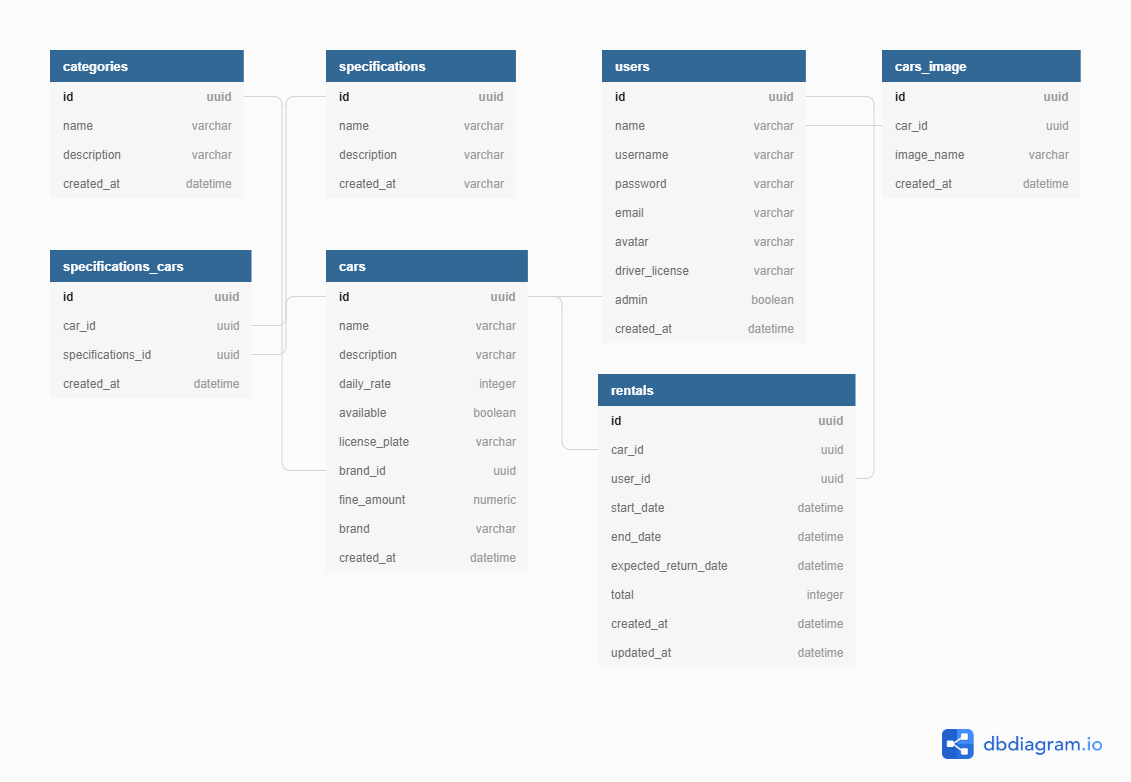
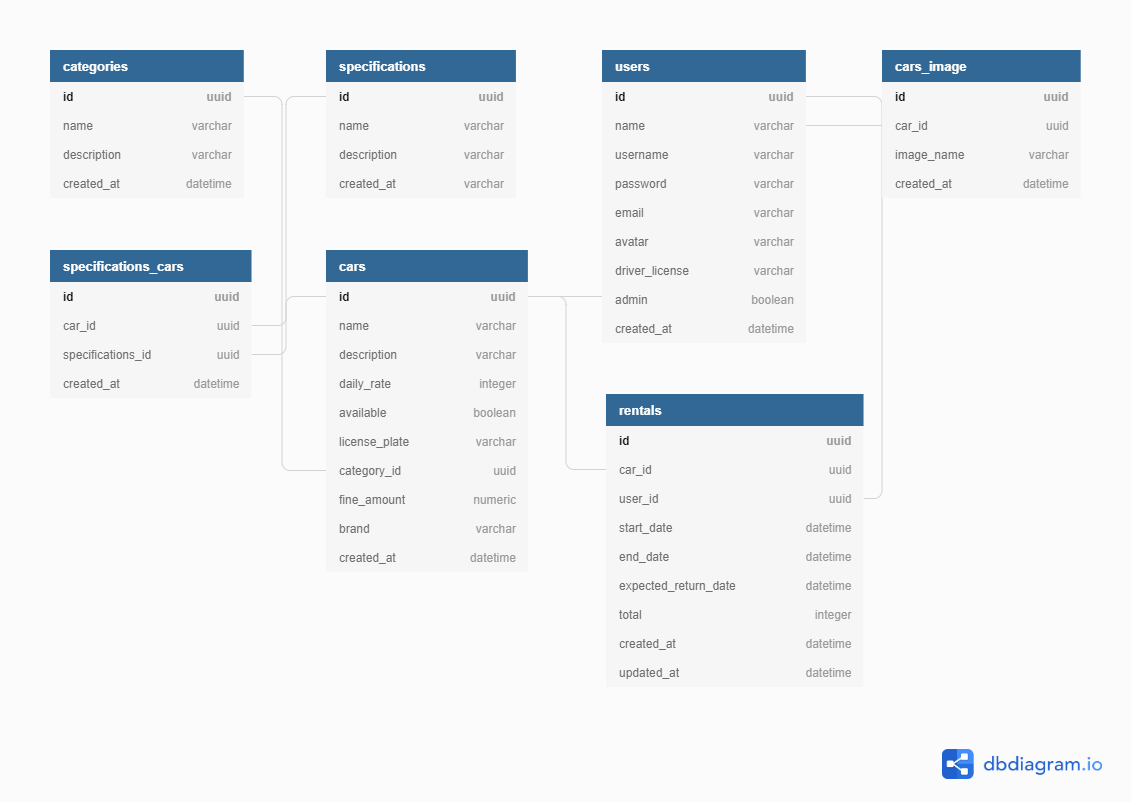
Cadastro dos requisitos da aplicação

diff --git a/README.md b/README.md
@@ -1,11 +1,69 @@
-# Cadastro de carros
+# Cadastro de veículos
 
-** Requisitos Funcionais **
-- Deve ser possível cadastrar um novo carro
+> Requisitos Funcionais
+- Deve ser possível cadastrar um novo veículo
+- Deve ser possível listar todas as categorias
 
-** Requisitos Não Funcionais **
+> Requisitos Não Funcionais
 - N/A
 
-** Regras de Negócio **
-- Não deve ser possível cadastrar um carro com uma placa já existente
-- Não deve ser possível alterar a placa de um carro já cadastrado
+> Regras de Negócio
+- Não deve ser possível cadastrar um veículo com uma placa já existente
+- Não deve ser possível alterar a placa de um veículo já cadastrado
+- O veículo deve ser cadastrado com a disponibilidade habilitada por padrão
+- Não deve ser possível o cadastro por um usuário sem acesso de administrador
+
+# Listagem de veículos
+
+> Requisitos Funcionais
+- Deve ser possível listar todos os veículos disponíveis
+- Deve ser possível listar todos os veículos disponíveis pelo nome da categoria
+- Deve ser possível listar todos os veículos disponíveis pelo nome da marca
+- Deve ser possível listar todos os veículos disponíveis pelo nome do veículo
+
+> Requisitos Não Funcionais
+- N/A
+
+> Regras de Negócio
+- O usuário não precisa estar logado no sistema
+
+# Cadastro de especificações
+
+> Requisitos Funcionais
+- Deve ser possível cadastrar uma especificação para um veículo
+- Deve ser possível listar todas as especificações
+- Deve ser possível listar todos os veículos
+
+> Requisitos Não Funcionais
+- N/A
+
+> Regras de Negócio
+- Não deve ser possível cadastrar uma especificação para um veículo não cadastrado
+- Não deve ser possível cadastrar uma especificação já existente para o mesmo veículo
+- Não deve ser possível o cadastro por um usuário sem acesso de administrador
+
+# Cadastro de imagens do veículo
+
+> Requisitos Funcionais
+- Deve ser possível cadastrar a imagem do veículo
+- Deve ser possível listar todos os veículos cadastrados
+
+> Requisitos Não Funcionais
+- Utilizar o multer para upload dos arquivos
+
+> Regras de Negócio
+- O usuário deve poder cadastrar mais de uma imagem para o mesmo veículo
+- Não deve ser possível o cadastro por um usuário sem acesso de administrador
+
+# Agendamento de alugel
+
+> Requisitos Funcionais
+- Deve ser possível listar cadastrar um aluguel
+
+> Requisitos Não Funcionais
+- N/A
+
+> Regras de Negócio
+- O alugel deve ter duração mínima de 24 horas
+- Não deve ser possível cadastrar um novo aluguel caso já exista um aberto para o mesmo usuário
+- Não deve ser possível cadastrar um novo aluguel caso já exista um aberto para o mesmo veículo
